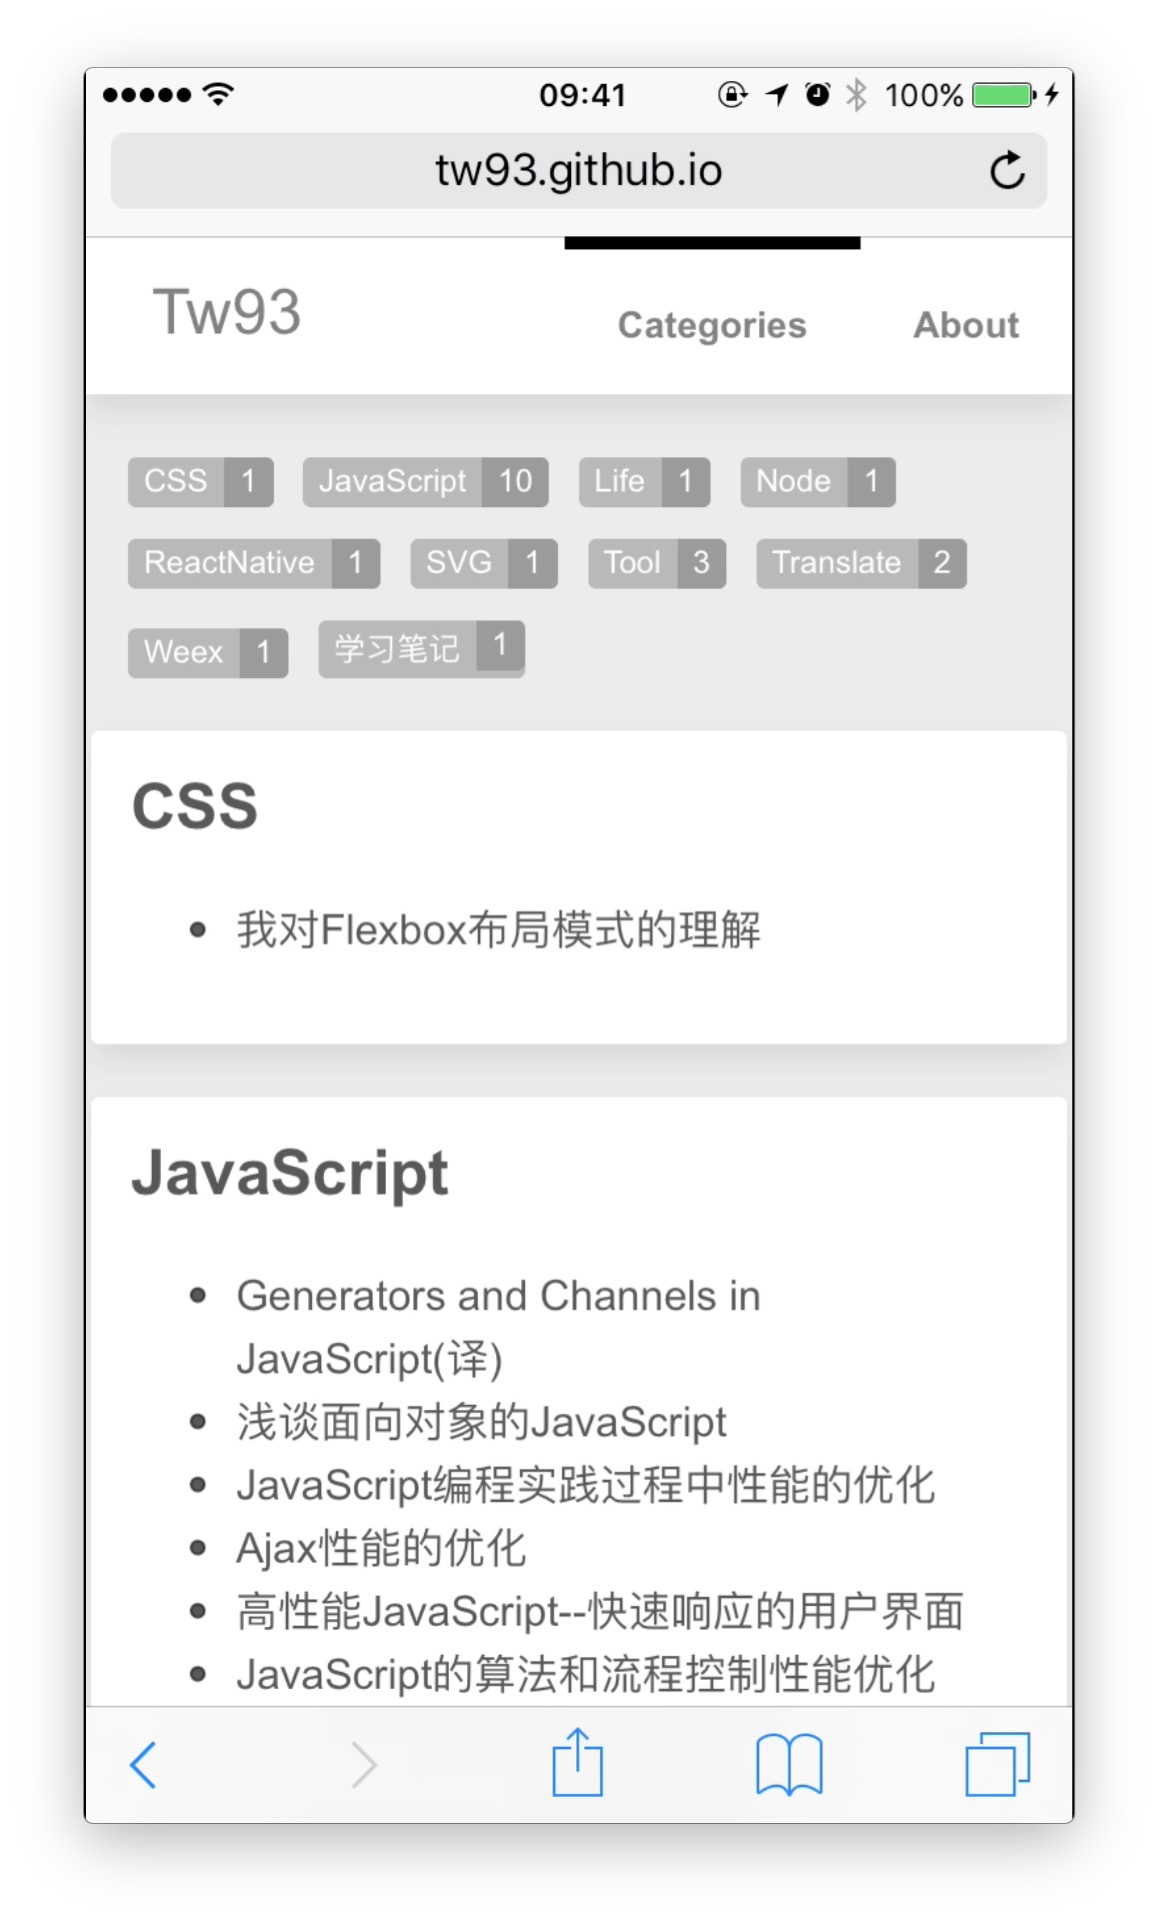
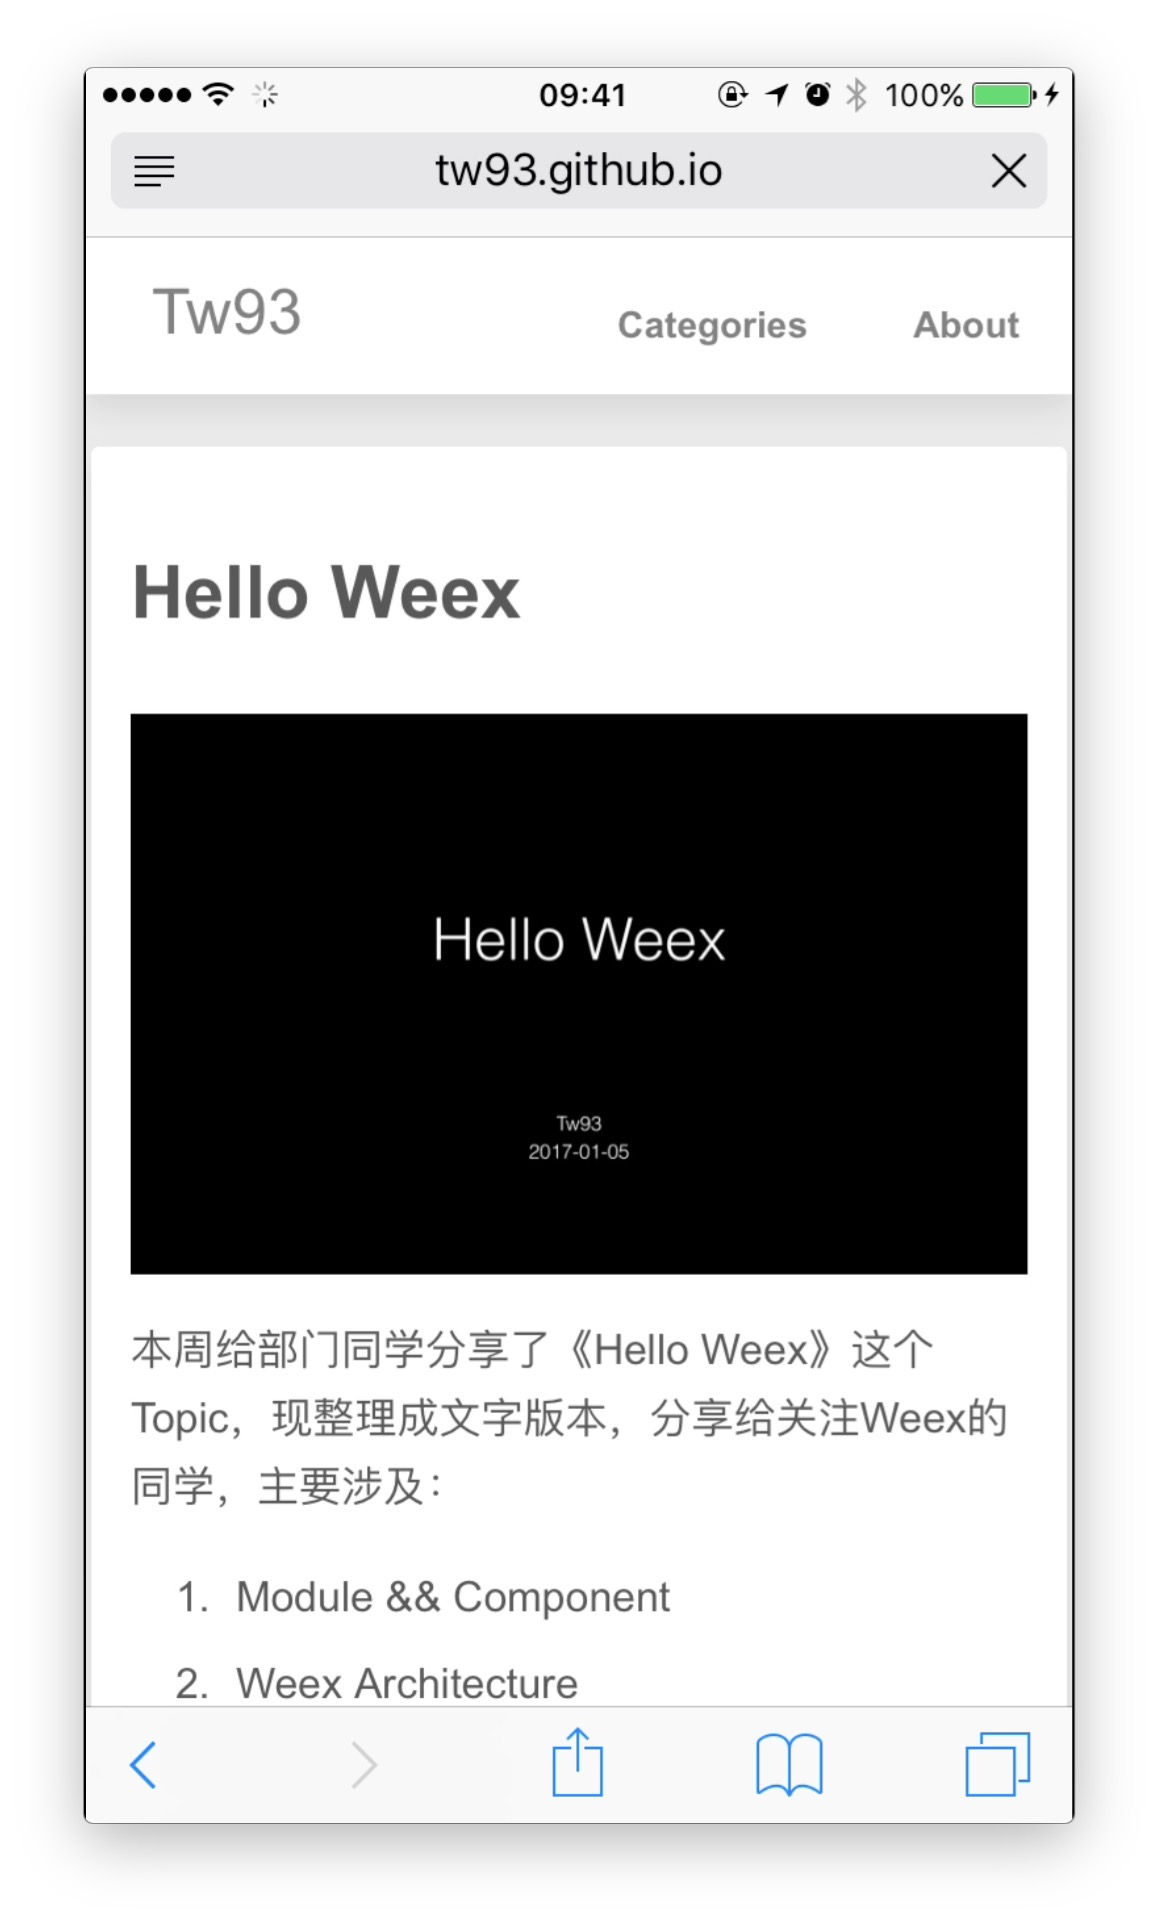
change

diff --git a/README.md b/README.md
@@ -11,7 +11,7 @@
 
 ### H5 Preview
 
-   <img src="http://tw93.github.io/images/demo/2.jpg" width="290"/><img src="http://tw93.github.io/images/demo/1.jpg" width="290"/><img src="http://tw93.github.io/images/demo/3.jpg" width="290"/>
+   <img src="http://tw93.github.io/images/demo/1.jpg" width="290"/><img src="http://tw93.github.io/images/demo/2.jpg" width="290"/><img src="http://tw93.github.io/images/demo/3.jpg" width="290"/>
 
 ### QR code
 
